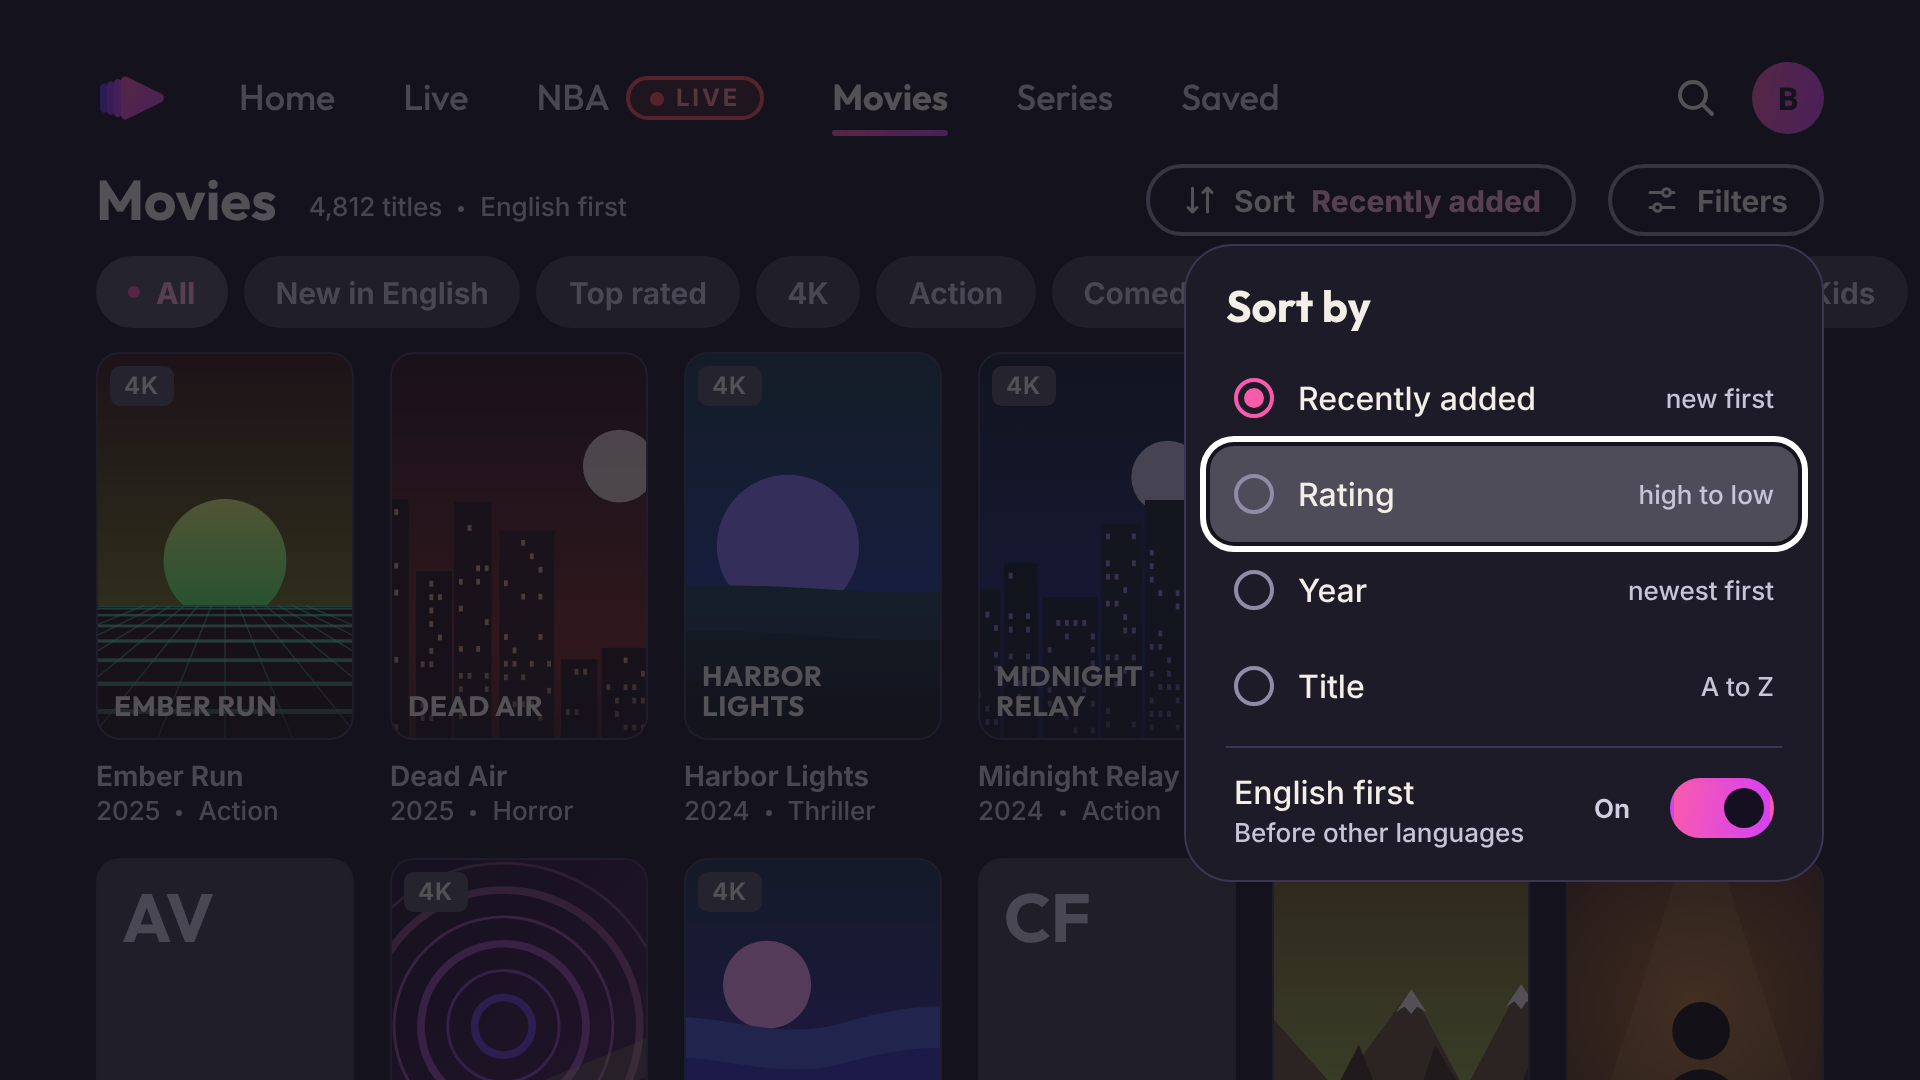
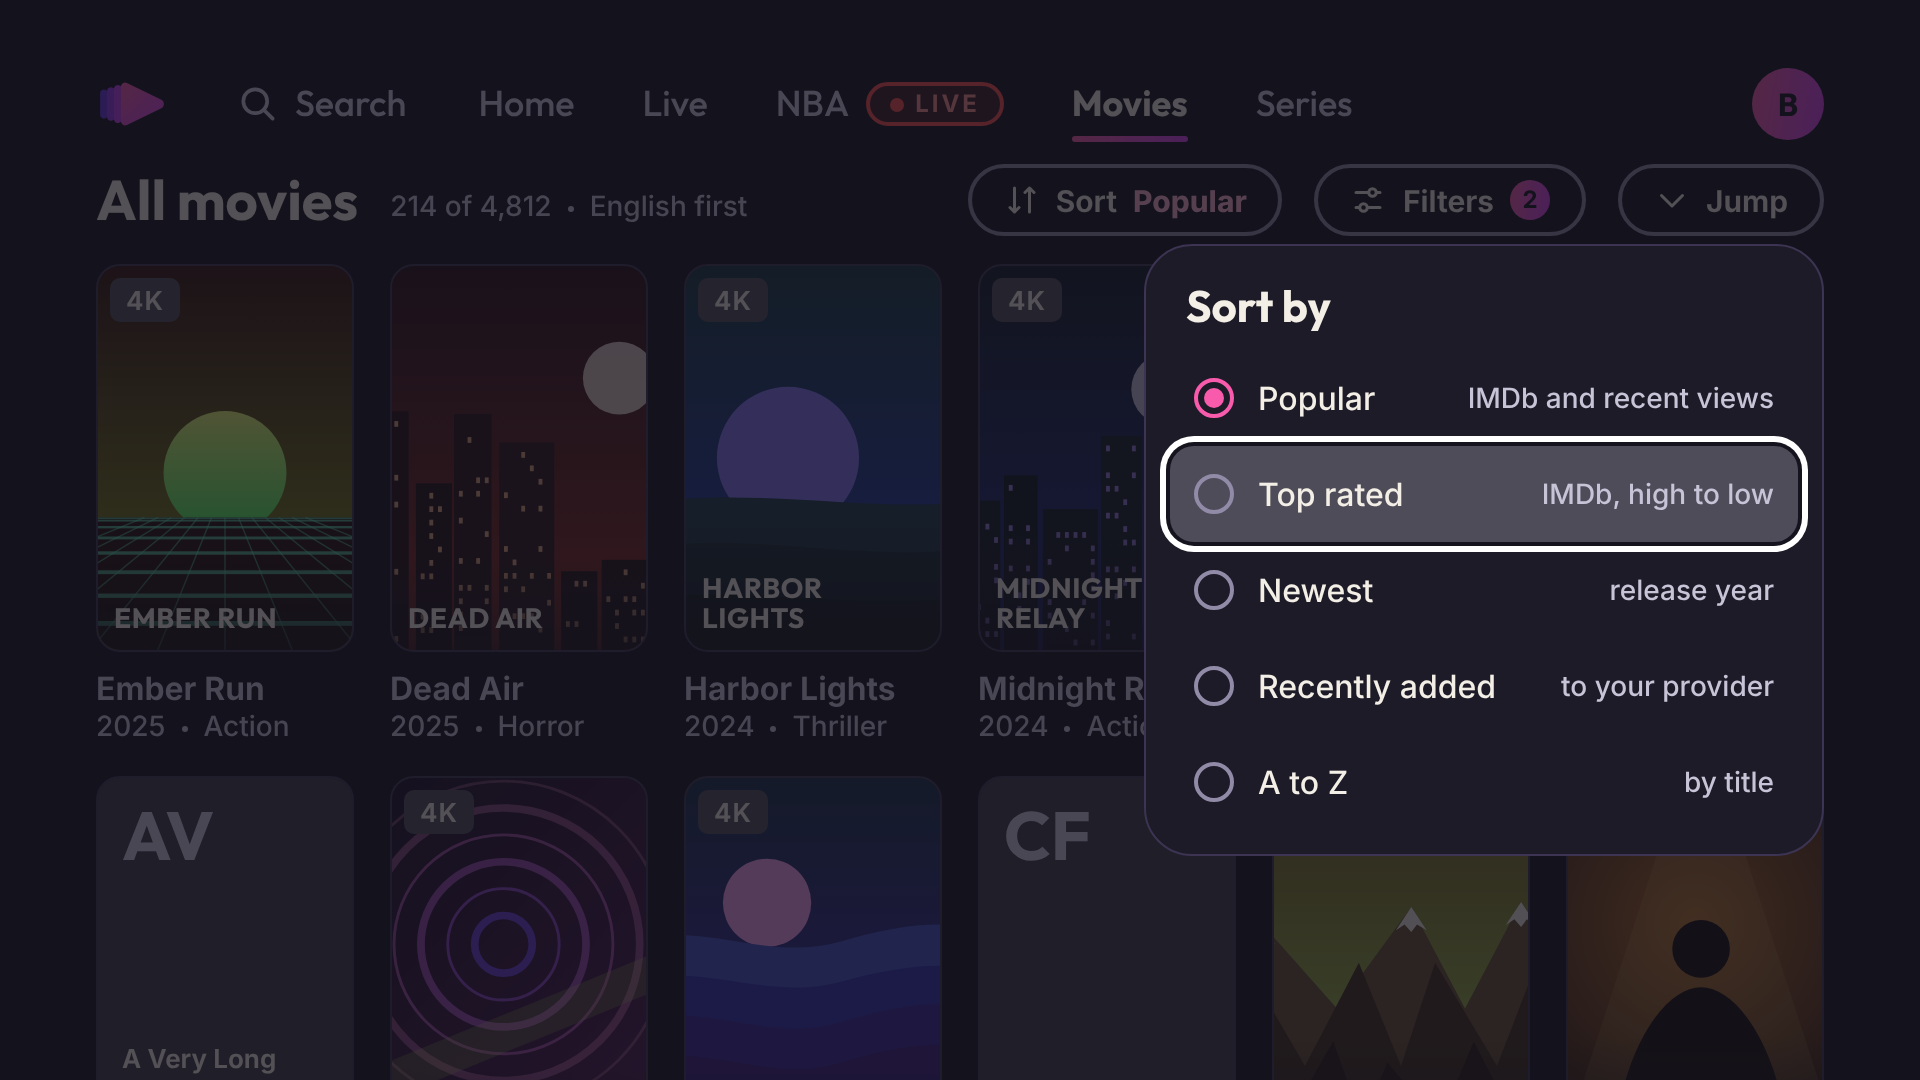
UI v1: brand check of milestone 1; 14 px floor and 2:3 poster card
Claude-Session: https://claude.ai/code/session_015UgfZhFtzJizh9RMWRrN9x

diff --git a/design/ui-v1/kit/movies.js b/design/ui-v1/kit/movies.js
@@ -1,41 +1,59 @@
-/* Movies / Series library screen (grid), shared by the base, sort and filter mocks. */
+/* Movies / Series (TV): shelves front page, "Browse all" grid, sort menu, filter sheet. Same system for Series. */
 (function (g) {
   'use strict';
-  const { ic, poster, topbar, dot } = g.Kit, M = g.Mock;
+  const { ic, poster, topbar, dot, wcard, star, tag } = g.Kit, M = g.Mock;
   const byId = (id) => M.MOVIES.find((m) => m.id === id);
-  const ORDER = ['m13', 'm4', 'm1', 'm6', 'm18', 'm11', 'm19', 'm8', 'm3', 'm20', 'm9', 'm2'];
-  const CATS = ['All', 'New in English', 'Top rated', '4K', 'Action', 'Comedy', 'Drama', 'Thriller', 'Sci-Fi', 'Kids', 'Documentary', 'Foreign'];
-  function movies({ focusIdx = 2, headFocus = '', sel = 'All', kind = 'Movies', count = '4,812', sortLabel = 'Recently added', filters = 0, items = ORDER.map(byId) } = {}) {
-    const chips = CATS.map((c) => `<span class="chip lg${c === sel ? ' sel' : ''}${headFocus === 'chip:' + c ? ' f-ring' : ''}">${c}</span>`).join('');
-    const grid = items.map((m, i) => poster(m, { focus: i === focusIdx })).join('');
+  const GRID = ['m13', 'm4', 'm1', 'm6', 'm18', 'm11', 'm19', 'm8', 'm3', 'm20', 'm9', 'm2'];
+
+  /* Front page: Continue (this kind only) first, then curated shelves. Focus = first card of the first shelf. */
+  function shelves({ kind = 'Movies' } = {}) {
+    const cont = [
+      wcard({ seed: 'm2', style: 'figure', hue: 14, title: 'The Long Take', meta: '1h 17m left', prog: 28, focus: true }),
+      wcard({ seed: 'm5', style: 'retro', hue: 276, title: 'Salt & Static', meta: '18 min left', prog: 82 }),
+      wcard({ seed: 'm7', style: 'forest', hue: 128, title: 'Glass Orchard', meta: '1h 52m left', prog: 6 }),
+      wcard({ seed: 'm9', style: 'peaks', hue: 24, title: 'The Cartographer', meta: '1h 40m left', prog: 18 }),
+      wcard({ seed: 'm14', style: 'rings', hue: 290, title: 'Quiet Frequencies', meta: '1h 05m left', prog: 40 }),
+    ].join('');
+    const pop = ['m1', 'm6', 'm3', 'm13', 'm18', 'm11', 'm8'].map(byId).map((m) => poster(m)).join('');
     return `${topbar({ sel: kind.toLowerCase() })}
-      <div class="lib-head"><span class="t-head">${kind}</span><span class="t-cap" style="margin-top:6px">${count} titles${dot}English first</span><span class="grow"></span>
-        <span class="pillbtn${headFocus === 'sort' ? ' f-ring' : ''}">${ic('sort')}Sort<b>${sortLabel}</b></span>
-        <span class="pillbtn${headFocus === 'filters' ? ' f-ring' : ''}">${ic('sliders')}Filters${filters ? `<span class="cnt">${filters}</span>` : ''}</span></div>
-      <div class="lib-chips">${chips}</div>
-      <div class="lib-grid">${grid}</div>`;
+      <div class="lib-head"><span class="t-head">${kind}</span><span class="t-cap" style="margin-top:6px">4,812 titles${dot}English and your languages</span><span class="grow"></span>
+        <span class="pillbtn">${ic('grid')}Browse all<b>4,812</b></span></div>
+      <div class="shelf-title rowtitle abs" style="top:128px;left:0">Continue watching</div>
+      <div class="strip abs" style="top:158px;left:0"><b>The Long Take</b>${dot}2023${dot}${'★ 7.4'}${dot}1h 17m left${dot}HD</div>
+      <div class="rail abs" style="top:188px;left:0">${cont}</div>
+      <div class="shelf-title rowtitle abs" style="top:320px;left:0">Popular in English</div>
+      <div class="rail abs" style="top:356px;left:0">${pop}</div>`;
+  }
+
+  /* Browse all: three header controls (Sort, Filters, Jump) and a virtualised 6-column grid. */
+  function grid({ focusIdx = 2, filters = 2, sortLabel = 'Popular', items = GRID.map(byId) } = {}) {
+    return `${topbar({ sel: 'movies' })}
+      <div class="lib-head"><span class="t-head">All movies</span><span class="t-cap" style="margin-top:6px">214 of 4,812${dot}English first</span><span class="grow"></span>
+        <span class="pillbtn">${ic('sort')}Sort<b>${sortLabel}</b></span>
+        <span class="pillbtn">${ic('sliders')}Filters${filters ? `<span class="cnt">${filters}</span>` : ''}</span>
+        <span class="pillbtn">${ic('chevD')}Jump</span></div>
+      <div class="lib-grid" style="top:132px">${items.map((m, i) => poster(m, { focus: i === focusIdx })).join('')}</div>`;
   }
   function scrolled({ focusIdx = 9 } = {}) {
     const items = ['m19', 'm8', 'm3', 'm20', 'm9', 'm2', 'm14', 'm12', 'm7', 'm5', 'm17', 'm10'].map(byId);
     return `<div class="lib-grid" style="top:24px">${items.map((m, i) => poster(m, { focus: i === focusIdx })).join('')}</div>`;
   }
   function sortMenu(focusRow = 1) {
-    const rows = [['Recently added', 'new first'], ['Rating', 'high to low'], ['Year', 'newest first'], ['Title', 'A to Z']];
-    const sel = 0;
-    return `<div class="scrim"></div><div class="menu" style="right:48px;top:122px;width:320px"><h3>Sort by</h3>
-      ${rows.map(([a, b], i) => `<div class="lr${i === focusRow ? ' f-ring' : ''}"><span class="rd${i === sel ? ' on' : ''}"></span>${a}<small>${b}</small></div>`).join('')}
-      <div class="sep"></div>
-      <div class="lr"><span class="grow">English first<div class="t-cap" style="margin-top:0">Before other languages</div></span><span class="onoff">On</span><span class="tg on"><i></i></span></div></div>`;
+    const rows = [['Popular', 'IMDb and recent views'], ['Top rated', 'IMDb, high to low'], ['Newest', 'release year'], ['Recently added', 'to your provider'], ['A to Z', 'by title']];
+    return `<div class="scrim"></div><div class="menu" style="right:48px;top:122px;width:340px"><h3>Sort by</h3>
+      ${rows.map(([a, b], i) => `<div class="lr${i === focusRow ? ' f-ring' : ''}"><span class="rd${i === 0 ? ' on' : ''}"></span>${a}<small>${b}</small></div>`).join('')}</div>`;
   }
   function filterSheet() {
-    const ch = (t, on, f) => `<span class="chip${on ? ' sel' : ''}${f ? ' f-ring' : ''}">${t}</span>`;
-    return `<div class="scrim"></div><div class="sheet">
-      <div class="row-flex" style="gap:12px"><h3 class="grow">Filters</h3><span class="t-cap" style="font-size:14px">2 active</span></div>
-      <div class="sec">Language</div><div class="chips">${ch('English first', 1)}${ch('English only')}${ch('All')}</div>
-      <div class="sec">Genre</div><div class="chips">${ch('Action')}${ch('Comedy')}${ch('Drama', 1)}${ch('Thriller', 0, 1)}${ch('Sci-Fi')}${ch('Horror')}${ch('Family')}${ch('Documentary')}${ch('More')}</div>
-      <div class="sec">Year</div><div class="chips">${ch('Any')}${ch('2020s', 1)}${ch('2010s')}${ch('Older')}</div>
-      <div class="sec">Rating</div><div class="chips">${ch('Any')}${ch('6+')}${ch('7+', 1)}${ch('8+')}</div>
+    const ch = (t, on, f, n) => `<span class="chip${on ? ' sel' : ''}${f ? ' f-ring' : ''}">${t}${n ? `<span class="t-3" style="font-weight:500">${n}</span>` : ''}</span>`;
+    return `<div class="scrim"></div><div class="sheet" style="width:392px">
+      <div class="row-flex" style="gap:12px"><h3 class="grow">Filters</h3><span class="pillbtn" style="height:32px;padding:0 14px;font-size:14px">Clear all</span></div>
+      <div class="sec">Language</div><div class="chips">${ch('Your languages', 1, 0, '3.9k')}${ch('All languages', 0, 0, '4.8k')}</div>
+      <div class="sec">Genre</div><div class="chips">${ch('Action', 0, 0, '412')}${ch('Comedy', 0, 0, '986')}${ch('Drama', 1, 0, '1.2k')}${ch('Thriller', 0, 1, '508')}${ch('Sci-Fi', 0, 0, '240')}${ch('More', 0)}</div>
+      <div class="sec">Quality</div><div class="chips">${ch('Any', 1)}${ch('HD and up', 0, 0, '3.1k')}${ch('4K', 0, 0, '612')}</div>
+      <div class="sec">Decade</div><div class="chips">${ch('Any')}${ch('2020s', 1, 0, '880')}${ch('2010s', 0, 0, '1.4k')}${ch('Older')}</div>
+      <div class="sec">IMDb</div><div class="chips">${ch('Any')}${ch('6+', 0, 0, '2.9k')}${ch('7+', 1, 0, '1.2k')}${ch('8+', 0, 0, '210')}</div>
+      <div class="lr" style="margin-top:2px;background:var(--a-surface-1)">More filters<small>Subtitles · Saved only · Provider category</small>${ic('chevR', 'sm')}</div>
       <div class="sheet-foot"><span class="btn btn-full">Show 214 titles</span></div></div>`;
   }
-  g.Movies = { movies, scrolled, sortMenu, filterSheet, ORDER, byId };
+  g.Movies = { shelves, grid, scrolled, sortMenu, filterSheet, GRID, byId };
 })(window);

diff --git a/design/ui-v1/kit/nba.js b/design/ui-v1/kit/nba.js
@@ -13,7 +13,7 @@
     return `${topbar({ sel: 'nba', live: true })}
 <div class="dayrow"><span class="t-head">NBA</span>
   <span class="row-flex" style="gap:8px;margin-left:12px"><span class="chip lg">${ic('chevL')}Sun 25</span><span class="chip lg sel">Today · Mon 26 Oct</span><span class="chip lg">Tue 27${ic('chevR')}</span></span>
-  <span class="grow"></span>${shield ? `<span class="t-cap row-flex" style="gap:6px;margin-right:14px;color:var(--a-text-2)">${ic('eyeOff', 'sm')}Shield: My team</span>` : ''}<span class="t-cap">2 live${dot}2 upcoming${dot}3 final</span></div>
+  <span class="grow"></span>${shield ? `<span class="t-cap row-flex" style="gap:6px;margin-right:14px;color:var(--a-text-2)">${ic('eyeOff', 'sm')}Shield: My team</span>` : ''}<span class="t-cap">2 live${dot}2 later${dot}3 final</span></div>
 <div class="nba-hero">
   <div class="slab" style="left:742px;width:260px"></div><div class="slabline" style="left:722px"></div>
   <div class="abs row-flex" style="left:24px;top:14px;gap:12px"><span class="t-label" style="color:var(--a-pink-text)">Your team</span>${liveP()}<span class="t-label t-2">Q3${dot}7:29</span></div>

diff --git a/design/ui-v1/tv/movies-sort.html b/design/ui-v1/tv/movies-sort.html
@@ -1,4 +1,4 @@
-<!doctype html><html lang="en"><head><meta charset="utf-8"><meta name="mock-size" content="960x540@2"><title>airglow TV: movies-sort</title>
+<!doctype html><html lang="en"><head><meta charset="utf-8"><meta name="mock-size" content="960x540@2"><title>airglow TV</title>
 <link rel="stylesheet" href="../../brand-v5/v5.4/fonts.css"><link rel="stylesheet" href="../../brand-v5/v5.4/tokens.css"><link rel="stylesheet" href="../ui.css">
 <script src="../kit/art.js"></script><script src="../kit/data.js"></script><script src="../kit/kit.js"></script><script src="../kit/movies.js"></script></head>
-<body><div class="screen" id="s"></div><script>document.getElementById('s').innerHTML=Movies.movies({focusIdx:-1,headFocus:'',sortLabel:'Recently added'})+Movies.sortMenu(1);</script></body></html>
+<body><div class="screen" id="s"></div><script>document.getElementById('s').innerHTML=Movies.grid({focusIdx:-1})+Movies.sortMenu(1);</script></body></html>

diff --git a/design/ui-v1/tv/movies-filters.html b/design/ui-v1/tv/movies-filters.html
@@ -1,4 +1,4 @@
-<!doctype html><html lang="en"><head><meta charset="utf-8"><meta name="mock-size" content="960x540@2"><title>airglow TV: movies-filters</title>
+<!doctype html><html lang="en"><head><meta charset="utf-8"><meta name="mock-size" content="960x540@2"><title>airglow TV</title>
 <link rel="stylesheet" href="../../brand-v5/v5.4/fonts.css"><link rel="stylesheet" href="../../brand-v5/v5.4/tokens.css"><link rel="stylesheet" href="../ui.css">
 <script src="../kit/art.js"></script><script src="../kit/data.js"></script><script src="../kit/kit.js"></script><script src="../kit/movies.js"></script></head>
-<body><div class="screen" id="s"></div><script>document.getElementById('s').innerHTML=Movies.movies({focusIdx:-1,filters:2})+Movies.filterSheet();</script></body></html>
+<body><div class="screen" id="s"></div><script>document.getElementById('s').innerHTML=Movies.grid({focusIdx:-1})+Movies.filterSheet();</script></body></html>

diff --git a/design/ui-v1/tv/movies.html b/design/ui-v1/tv/movies.html
@@ -1,4 +1,4 @@
-<!doctype html><html lang="en"><head><meta charset="utf-8"><meta name="mock-size" content="960x540@2"><title>airglow TV: movies</title>
+<!doctype html><html lang="en"><head><meta charset="utf-8"><meta name="mock-size" content="960x540@2"><title>airglow TV</title>
 <link rel="stylesheet" href="../../brand-v5/v5.4/fonts.css"><link rel="stylesheet" href="../../brand-v5/v5.4/tokens.css"><link rel="stylesheet" href="../ui.css">
 <script src="../kit/art.js"></script><script src="../kit/data.js"></script><script src="../kit/kit.js"></script><script src="../kit/movies.js"></script></head>
-<body><div class="screen" id="s"></div><script>document.getElementById('s').innerHTML=Movies.movies({focusIdx:2});</script></body></html>
+<body><div class="screen" id="s"></div><script>document.getElementById('s').innerHTML=Movies.shelves();</script></body></html>

diff --git a/design/ui-v1/tv/movies-scrolled.html b/design/ui-v1/tv/movies-scrolled.html
@@ -1,4 +1,4 @@
-<!doctype html><html lang="en"><head><meta charset="utf-8"><meta name="mock-size" content="960x540@2"><title>airglow TV: Movies scrolled</title>
+<!doctype html><html lang="en"><head><meta charset="utf-8"><meta name="mock-size" content="960x540@2"><title>airglow TV</title>
 <link rel="stylesheet" href="../../brand-v5/v5.4/fonts.css"><link rel="stylesheet" href="../../brand-v5/v5.4/tokens.css"><link rel="stylesheet" href="../ui.css">
 <script src="../kit/art.js"></script><script src="../kit/data.js"></script><script src="../kit/kit.js"></script><script src="../kit/movies.js"></script></head>
 <body><div class="screen" id="s"></div><script>document.getElementById('s').innerHTML=Movies.scrolled({focusIdx:9});</script></body></html>

diff --git a/design/ui-v1/tv/movies-all.html b/design/ui-v1/tv/movies-all.html
@@ -1,0 +1,4 @@
+<!doctype html><html lang="en"><head><meta charset="utf-8"><meta name="mock-size" content="960x540@2"><title>airglow TV</title>
+<link rel="stylesheet" href="../../brand-v5/v5.4/fonts.css"><link rel="stylesheet" href="../../brand-v5/v5.4/tokens.css"><link rel="stylesheet" href="../ui.css">
+<script src="../kit/art.js"></script><script src="../kit/data.js"></script><script src="../kit/kit.js"></script><script src="../kit/movies.js"></script></head>
+<body><div class="screen" id="s"></div><script>document.getElementById('s').innerHTML=Movies.grid({focusIdx:2});</script></body></html>
